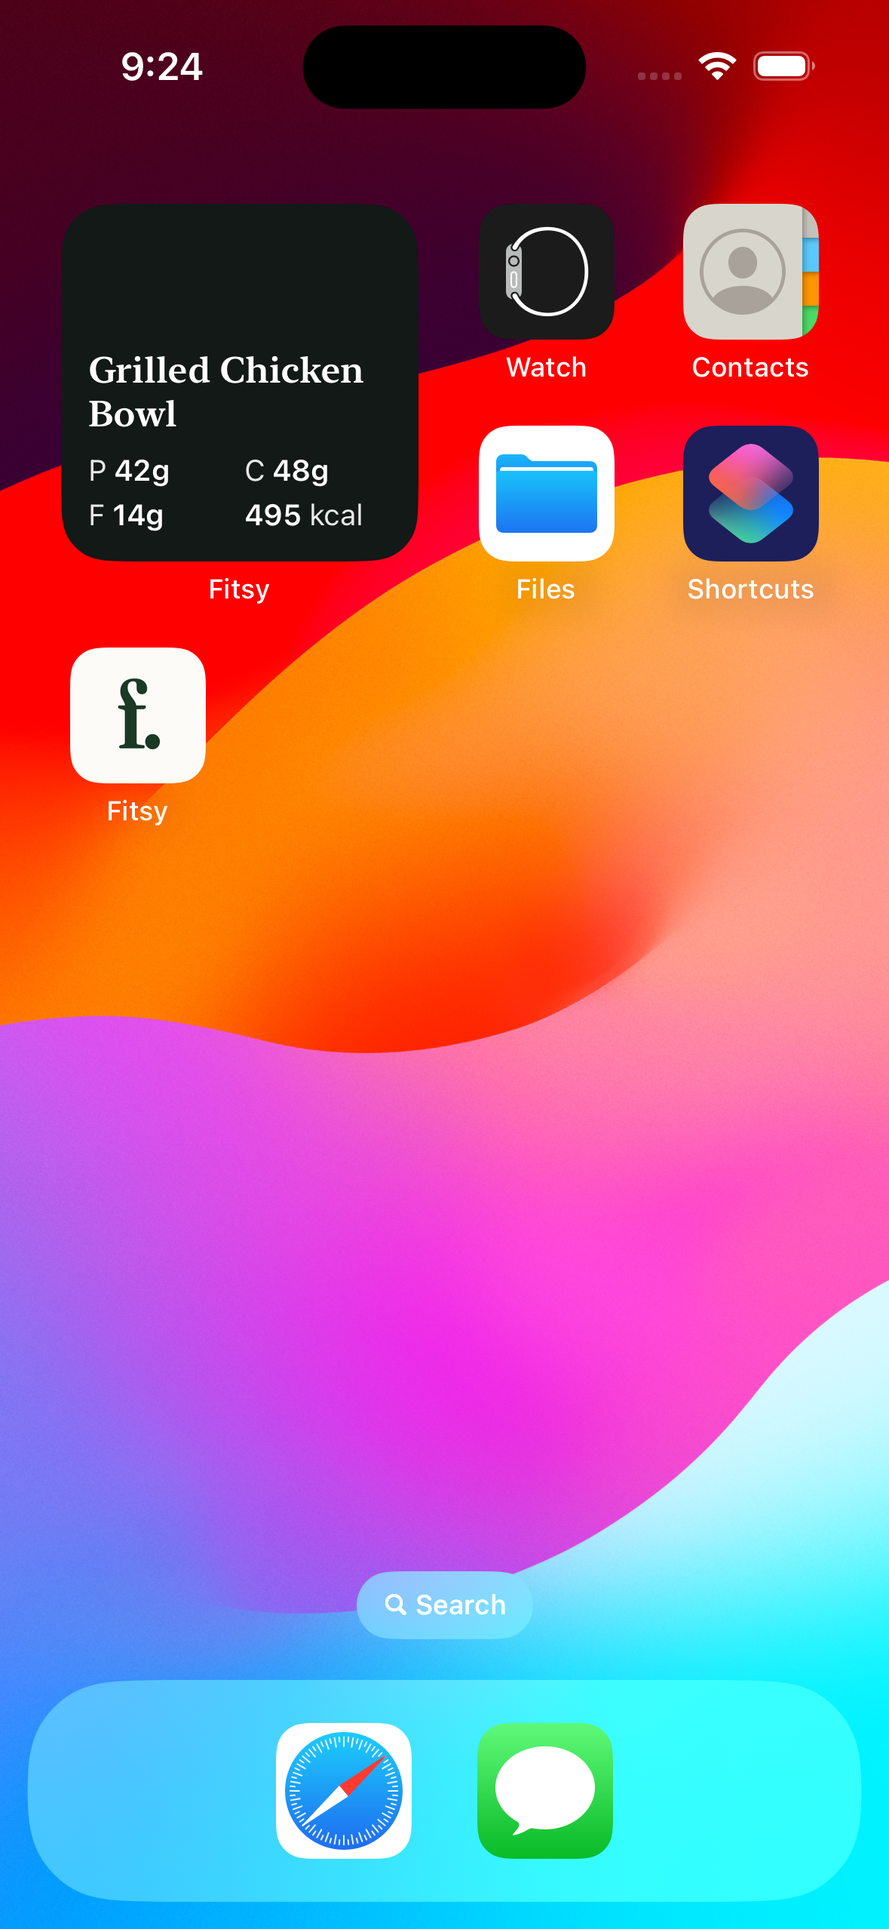
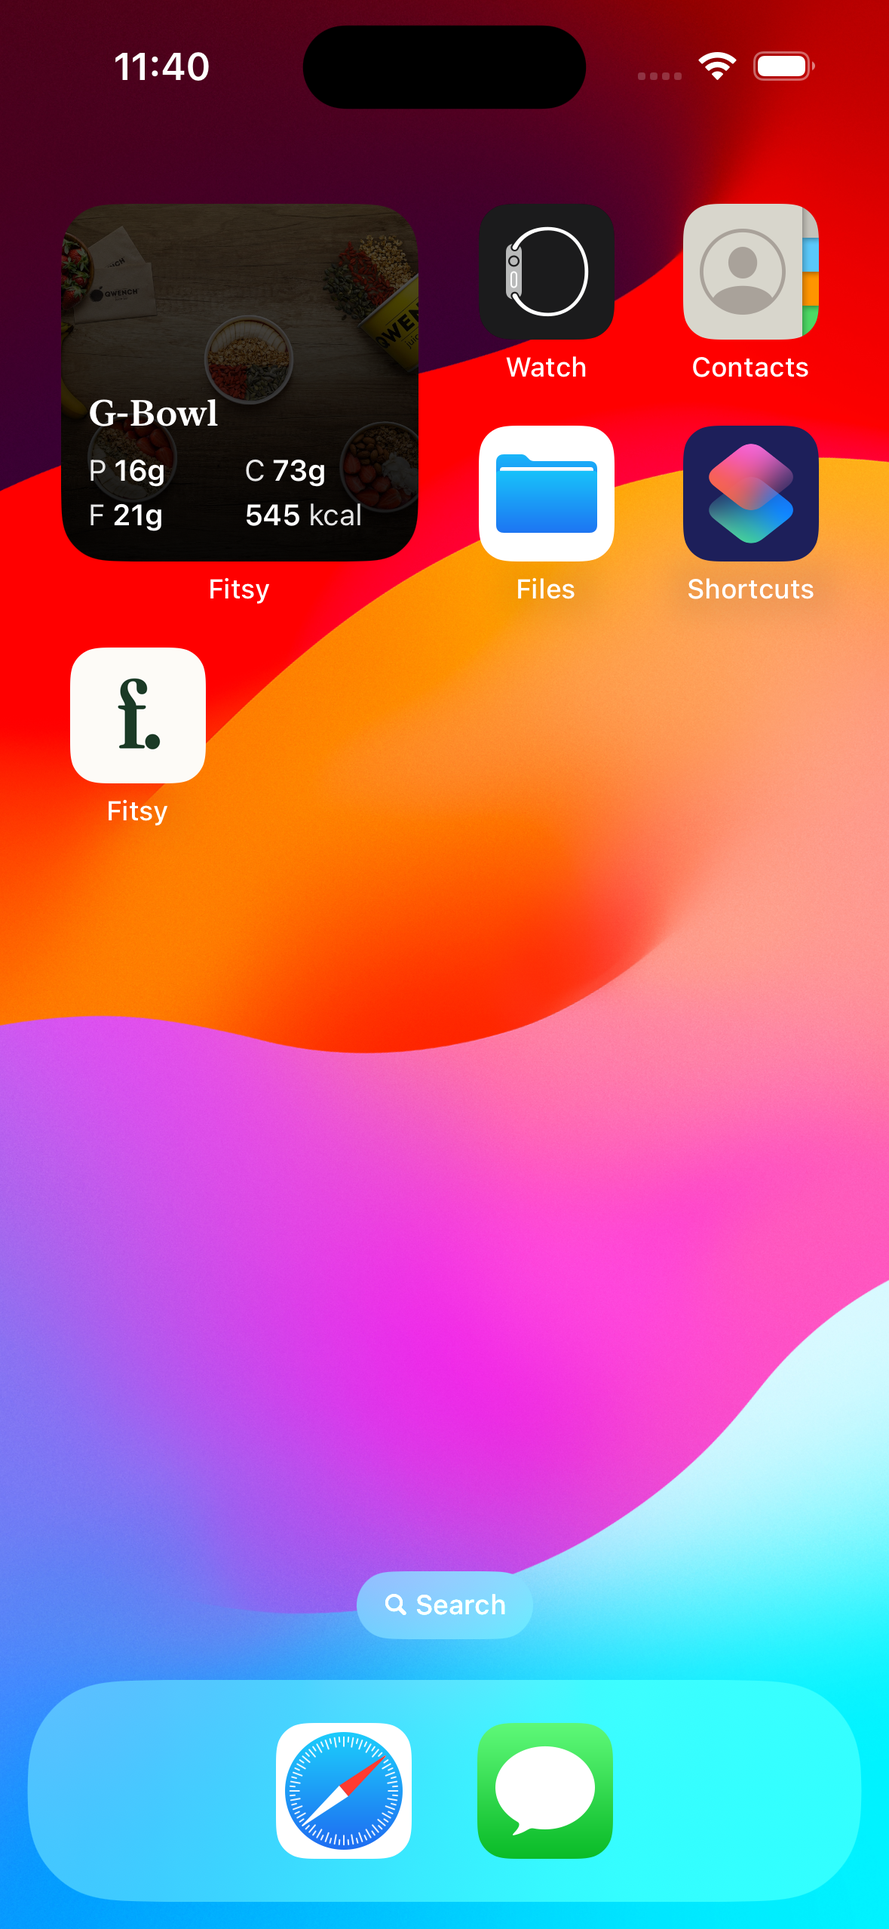
Round 2: real locked 4th map card, no-clip widget photo, balanced context copy
Addresses Dawit's 10:42 PM 2nd-round feedback on #802:
- Guided preview now returns one extra real, named restaurant beyond the
  three picks (API: SQL limit 3->4, dish match always redacted, same rule
  as an unentitled search row) so the map preview can show a genuine
  locked fourth option teasing the paid tier, not a fake placeholder.
- DiscoveryScreen/DiscoveryMap: removed the onboarding progress bar over
  the map preview so it reads as the real map screen with the guided tour.
- how-it-works.tsx: balanced the trimmed context screen with one line each
  for published vs. estimated nutrition, keeping the generous white space.
- widget.tsx: captured a cleaner real Home Screen photo (dish with a real
  photo this time) for the widget preview.

Changed region(s): [[0.0611, 0.0927, 0.4885, 0.2782], [0.1527, 0.0309, 0.2443, 0.0618]]

diff --git a/apps/mobile/components/DiscoveryMap.test.tsx b/apps/mobile/components/DiscoveryMap.test.tsx
@@ -581,7 +581,8 @@ it('recovers the production map preview, preserves sample disclosure, and carrie
   await screen.findByTestId('preview-retry');
   expect(screen.getByTestId('discovery-map')).toBeTruthy();
   expect(screen.getByTestId('preview-back')).toBeTruthy();
-  expect(screen.getByLabelText('Onboarding progress').props.accessibilityValue.now).toBe(75);
+  // The map preview is the real map screen: no onboarding progress chrome over it.
+  expect(screen.queryByLabelText('Onboarding progress')).toBeNull();
   offline = false;
   await act(async () => fireEvent.press(screen.getByTestId('preview-retry')));
   await screen.findByTestId('map-card-2');
@@ -618,6 +619,49 @@ it('recovers the production map preview, preserves sample disclosure, and carrie
     expect(Object.fromEntries(url.searchParams)).toMatchObject({ guided: '1', lat: '34.04', lng: '-118.24' });
     expect(url.searchParams.has('cursor')).toBe(false);
   }
+});
+
+it('shows a real, named fourth restaurant locked as a paid-tier teaser, with no dish match leaked', async () => {
+  await saveOnboardingField('goal', 'lose_fat');
+  // A lat/lng unused by any other test in this file - the guided preview
+  // client caches by exact area + targets, and the fixed 'buyer' test user
+  // id would otherwise collide with another test's cached response.
+  await saveOnboardingField('area', { lat: 34.19, lng: -118.39, name: 'Teaser Area', source: 'manual' });
+  markPreviewTourSeen();
+  const teaser = { ...restaurants[3], bestMatch: null };
+  global.fetch = jest.fn(withAccountProfile(async input => {
+    const url = new URL(input);
+    requests.push(url);
+    if (url.pathname === '/api/restaurants/preview') {
+      return response({ data: restaurants.slice(0, 3), meta: { nearbyDishCount: 12, radiusMiles: 3, lockedTeaser: teaser } });
+    }
+    return response({ active: false, verdict: 'never_subscribed', synced: true, stale: false, lastRcVerifiedAt: new Date().toISOString() });
+  }));
+  const screen = renderJourney('/welcome/preview', { ...routes, 'welcome/preview': () => <Preview /> });
+  await screen.findByTestId('map-card-3');
+  expect(screen.getByText('4 / 4')).toBeTruthy();
+  expect(screen.getByText('Fourth Spot')).toBeTruthy();
+  expect(screen.getByTestId('map-card-3').props.accessibilityLabel).toBe('Fourth Spot. Unlock meal name and full menu with Pro.');
+  expect(screen.queryByTestId('preview-hidden-dish-spot-3')).toBeNull();
+});
+
+it('shows only the three real picks when the area has no fourth nearby restaurant', async () => {
+  await saveOnboardingField('goal', 'lose_fat');
+  // Also a cache-key-unique area; see the comment in the preceding test.
+  await saveOnboardingField('area', { lat: 34.21, lng: -118.41, name: 'No Teaser Area', source: 'manual' });
+  markPreviewTourSeen();
+  global.fetch = jest.fn(withAccountProfile(async input => {
+    const url = new URL(input);
+    requests.push(url);
+    if (url.pathname === '/api/restaurants/preview') {
+      return response({ data: restaurants.slice(0, 3), meta: { nearbyDishCount: 3, radiusMiles: 3, lockedTeaser: null } });
+    }
+    return response({ active: false, verdict: 'never_subscribed', synced: true, stale: false, lastRcVerifiedAt: new Date().toISOString() });
+  }));
+  const screen = renderJourney('/welcome/preview', { ...routes, 'welcome/preview': () => <Preview /> });
+  await screen.findByTestId('map-card-2');
+  expect(screen.getByText('3 / 3')).toBeTruthy();
+  expect(screen.queryByTestId('map-card-3')).toBeNull();
 });
 
 it.each([undefined, false, 'true', 'control'])('fails closed for a non-boolean map flag (%s)', async value => {

diff --git a/apps/mobile/app/welcome/widget.tsx b/apps/mobile/app/welcome/widget.tsx
@@ -1,5 +1,5 @@
 import React from 'react';
-import { Image, StyleSheet, Text, View } from 'react-native';
+import { Image, StyleSheet, Text, useWindowDimensions, View } from 'react-native';
 import { useNavigation } from 'expo-router';
 import { WelcomeScreen } from '@/components/WelcomeScreen';
 import { TEXT } from '@/lib/brand';
@@ -11,28 +11,35 @@ const steps = ['Long-press your Home Screen.', 'Tap + (or Edit → Add Widget).'
 
 function WidgetCardScreen() {
   const navigation = useNavigation();
+  // Match WelcomeScreen's own compact breakpoint so the phone shrinks on
+  // shorter devices (iPhone SE) rather than pushing the steps under the footer.
+  const { height, fontScale } = useWindowDimensions();
+  const compact = height < 780 && fontScale <= 1.2;
+  const phoneWidth = compact ? 108 : 140;
   // This is the last onboarding screen; finish exactly as a direct purchase
   // without a widget tip already does.
   const finish = () => { void openPurchasedDestination(navigation).then(() => clearPaymentSignInContinuation()); };
   return <WelcomeScreen progress={0.95} title={"A meal at\na glance."}
     subtitle="Add Fitsy to your Home Screen to see it like this."
     canContinue onContinue={finish} onSkip={finish} continueLabel="Start exploring" showBack={false}>
-    <View style={s.phone} testID="onboarding-widget-card">
+    <View style={[s.phone, { width: phoneWidth, marginBottom: compact ? 12 : 20 }]} testID="onboarding-widget-card">
       <Image source={require('../../assets/widget-homescreen.png')} resizeMode="contain" style={s.screenshot}
         accessible accessibilityRole="image" testID="onboarding-widget-example"
         accessibilityLabel="Example Fitsy widget on a Home Screen, showing a real meal with its protein, carbs, fat and calories." />
     </View>
-    <View style={s.steps}>
-      {steps.map((step, index) => <Text key={step} style={s.step} testID={`onboarding-widget-step-${index + 1}`}>{index + 1}. {step}</Text>)}
+    <View style={[s.steps, compact && s.stepsCompact]}>
+      {steps.map((step, index) => <Text key={step} style={[s.step, compact && s.stepCompact]} testID={`onboarding-widget-step-${index + 1}`}>{index + 1}. {step}</Text>)}
     </View>
   </WelcomeScreen>;
 }
 
 const s = StyleSheet.create({
-  phone: { alignSelf: 'center', width: 140, aspectRatio: 9 / 18.5, borderRadius: 26, overflow: 'hidden', backgroundColor: '#1C1C1E', marginBottom: 20 },
+  phone: { alignSelf: 'center', aspectRatio: 9 / 18.5, borderRadius: 26, overflow: 'hidden', backgroundColor: '#1C1C1E' },
   screenshot: { width: '100%', height: '100%' },
   steps: { gap: 10 },
+  stepsCompact: { gap: 6 },
   step: { ...TEXT.body, fontSize: 15, lineHeight: 22 },
+  stepCompact: { fontSize: 13, lineHeight: 18 },
 });
 
 export default requireWelcomeGoal(WidgetCardScreen, '/welcome/target-setup');

diff --git a/apps/mobile/lib/useDiscoveryResults.ts b/apps/mobile/lib/useDiscoveryResults.ts
@@ -1,6 +1,6 @@
 import { useCallback, useEffect, useRef, useState } from 'react';
 import { randomUUID } from 'expo-crypto';
-import type { RestaurantResult } from '@fitsy/shared';
+import type { GuidedPreviewResponse, RestaurantResult } from '@fitsy/shared';
 import { SHUFFLE_EXCLUSION_MAX_ENCODED_LENGTH } from '@fitsy/shared/contracts/search';
 import type { MacroValues } from './macroPresets';
 import type { UseLocationResult, LocationState } from './useLocation';
@@ -27,6 +27,7 @@ export function useDiscoveryResults({ inputs, query, location, canSearch, target
   const [fetchSeq, setFetchSeq] = useState(0);
   const [outOfArea, setOutOfArea] = useState(false);
   const [nearbyDishCount, setNearbyDishCount] = useState<number>();
+  const [lockedTeaser, setLockedTeaser] = useState<GuidedPreviewResponse['meta']['lockedTeaser']>(null);
   // Invalidate on the rendered context, before the debounce starts another request.
   // Otherwise an older response can repaint results for text the user already replaced.
   const contextKey = JSON.stringify([inputs.protein, inputs.carbs, inputs.fat, inputs.calories, location.lat, location.lng, query.trim(), isOnboardingPreview]);
@@ -107,7 +108,10 @@ export function useDiscoveryResults({ inputs, query, location, canSearch, target
         if (!isCurrent()) return;
         if (previewResponse) {
           setNearbyDishCount(previewResponse.meta.nearbyDishCount);
+          setLockedTeaser(previewResponse.meta.lockedTeaser ?? null);
           void saveOnboardingField('previewArea', `${lat}:${lng}`).then(() => saveOnboardingField('previewCraving', q.trim())).catch(() => undefined);
+        } else {
+          setLockedTeaser(null);
         }
         if (networkError) {
           if (!shuffle) { setResults([]); setNextCursor(null); }
@@ -314,5 +318,6 @@ export function useDiscoveryResults({ inputs, query, location, canSearch, target
   }, [canShuffle, doFetch, inputs, location.lat, location.lng, location.source, query]);
   return { results, nextCursor, loading: canSearch && (loading || pending), loadingMore, refreshing,
     error: pending ? null : error, locked, fetchSeq, outOfArea: !pending && outOfArea,
-    nearbyDishCount: pending ? undefined : nearbyDishCount, doFetch, handleRefresh, handleEndReached, canShuffle, handleShuffle };
+    nearbyDishCount: pending ? undefined : nearbyDishCount, lockedTeaser: pending ? null : lockedTeaser,
+    doFetch, handleRefresh, handleEndReached, canShuffle, handleShuffle };
 }

diff --git a/apps/mobile/components/DiscoveryMap.tsx b/apps/mobile/components/DiscoveryMap.tsx
@@ -73,8 +73,12 @@ export default function DiscoveryMap({ discovery: d, onShowList, previewHeader, 
   const controlsBottom = insets.top + 8 + topHeight;
   const maxTrayHeight = Math.max(160, layoutHeight - controlsBottom - bottomClearance - 96);
   // Match the list's free-result boundary and preserve rows without coordinates.
-  const cards = useMemo(() => d.canSearch && !d.loading ? (d.locked || d.isOnboardingPreview ? d.results.slice(0, 3) : d.results) : [],
-    [d.canSearch, d.loading, d.locked, d.isOnboardingPreview, d.results]);
+  // The preview appends one real, locked card teasing the paid tier, when the
+  // area has a fourth nearby restaurant to show (lockedTeaser is null otherwise).
+  const cards = useMemo(() => d.canSearch && !d.loading
+    ? (d.isOnboardingPreview ? (d.lockedTeaser ? [...d.results.slice(0, 3), d.lockedTeaser] : d.results.slice(0, 3))
+      : d.locked ? d.results.slice(0, 3) : d.results) : [],
+    [d.canSearch, d.loading, d.locked, d.isOnboardingPreview, d.results, d.lockedTeaser]);
   const pins = useMemo(() => cards.filter(hasMapCoordinate), [cards]);
   const index = cards.findIndex(result => result.id === selectedId);
   const fallback = !d.location.loading && d.location.source.startsWith('fallback-');
@@ -237,7 +241,7 @@ export default function DiscoveryMap({ discovery: d, onShowList, previewHeader, 
             if (result) select(result, false);
           }}>
           {cards.map((result, position) => <View key={result.id} ref={position === 0 ? d.tourHeroRef : undefined} collapsable={false} testID={result.id === selectedId ? 'map-preview' : undefined}>
-            <DiscoveryMapCard result={result} locked={d.locked === true && !d.isOnboardingPreview}
+            <DiscoveryMapCard result={result} locked={(d.locked === true && !d.isOnboardingPreview) || result.id === d.lockedTeaser?.id}
               onboardingPreview={d.isOnboardingPreview} hideDishName={d.isOnboardingPreview && position > 0}
               style={{ width: cardWidth, height: compact ? 174 : 210 }}
               testID={result.id === selectedId ? 'map-preview-open' : `map-card-${position}`} onPress={() => open(result)}

diff --git a/apps/mobile/lib/useDiscoveryState.ts b/apps/mobile/lib/useDiscoveryState.ts
@@ -67,7 +67,7 @@ export function useDiscoveryState({ onboardingPreview = false }: { onboardingPre
   const canSearch = (hasInputs || hasQuery || isOnboardingPreview) && previewReady;
   const [targetsLoaded, setTargetsLoaded] = useState(false);
   const discovery = useDiscoveryResults({ inputs, query, location, canSearch, targetsLoaded, previewReady, isOnboardingPreview });
-  const { results, nextCursor, loading, loadingMore, refreshing, error, locked, fetchSeq, outOfArea, nearbyDishCount, doFetch, handleRefresh, handleEndReached, canShuffle, handleShuffle } = discovery;
+  const { results, nextCursor, loading, loadingMore, refreshing, error, locked, fetchSeq, outOfArea, nearbyDishCount, lockedTeaser, doFetch, handleRefresh, handleEndReached, canShuffle, handleShuffle } = discovery;
   const tourEnabled = isOnboardingPreview && locked === true && !filterVisible && !locationPickerVisible;
   const tourReady = previewTourReady({ preview: isOnboardingPreview, locked, loading, error, outOfArea, fetchSeq });
   const [emptyTour, setEmptyTour] = useState(false);
@@ -214,7 +214,7 @@ export function useDiscoveryState({ onboardingPreview = false }: { onboardingPre
     ]; }, [tried, results, demo.typing, loading, error, emptyTour]);
 
   return { navigation, isOnboardingPreview, tried, inputs, filterMode, query, setQuery: demo.editQuery, canSearch, hasQuery, location,
-    locationLabel, results, heroResult, listResults, nextCursor, loading, loadingMore, refreshing, error, locked, outOfArea, nearbyDishCount,
+    locationLabel, results, heroResult, listResults, nextCursor, loading, loadingMore, refreshing, error, locked, outOfArea, nearbyDishCount, lockedTeaser,
     filterVisible, setFilterVisible, locationPickerVisible, setLocationPickerVisible, tourReady, tourVisible: tour.visible, startTour: tour.start,
     tourEditRef, tourSearchRef, tourHeroRef, tourLocationRef, tourMoreRef, tourSteps, finishTour, tourStepShown: demo.showStep, cancelTourTyping: demo.cancel, handleClearQuery, handleApplyFilters,
     handleJoinWaitlist, handleOpenLocationPicker, handlePickLocation, handleUseCurrentLocation, unlockPreview,

diff --git a/apps/mobile/app/welcome/how-it-works.tsx b/apps/mobile/app/welcome/how-it-works.tsx
@@ -18,19 +18,27 @@ function HowItWorksScreen() {
       .catch(() => Alert.alert('Could not open preview', 'Please try again.')); }}>
     <View style={s.graphic}>
       <View style={s.iconWrap}><Ionicons name="receipt-outline" size={36} color={EDITORIAL.green} /></View>
-      <View style={s.badges}>
-        <Text style={s.badge} testID="nutrition-source-published">Published</Text>
-        <Text style={[s.badge, s.estimated]} testID="nutrition-source-estimated">Estimated</Text>
+      <View style={s.sources}>
+        <View style={s.sourceRow}>
+          <Text style={s.badge} testID="nutrition-source-published">Published</Text>
+          <Text style={s.sourceText}>Straight from the restaurant’s menu.</Text>
+        </View>
+        <View style={s.sourceRow}>
+          <Text style={[s.badge, s.estimated]} testID="nutrition-source-estimated">Estimated</Text>
+          <Text style={s.sourceText}>Our best approximation when it isn’t.</Text>
+        </View>
       </View>
     </View>
   </WelcomeScreen>;
 }
 const s = StyleSheet.create({
-  graphic: { alignItems: 'center', paddingVertical: 36, gap: 24 },
+  graphic: { alignItems: 'center', paddingVertical: 36, gap: 28 },
   iconWrap: { width: 72, height: 72, borderRadius: 36, backgroundColor: EDITORIAL.greenAccentTint, alignItems: 'center', justifyContent: 'center' },
-  badges: { flexDirection: 'row', gap: 10 },
+  sources: { gap: 16, alignSelf: 'stretch' },
+  sourceRow: { flexDirection: 'row', alignItems: 'center', gap: 12 },
   badge: { ...TEXT.bodySmall, borderRadius: 14, overflow: 'hidden', backgroundColor: EDITORIAL.greenAccentTint, color: EDITORIAL.green, paddingHorizontal: 12, paddingVertical: 6 },
   estimated: { backgroundColor: EDITORIAL.creamDeep, color: EDITORIAL.textMid },
+  sourceText: { ...TEXT.body, flex: 1, fontSize: 14, lineHeight: 20, color: EDITORIAL.textMid },
 });
 
 export default requireWelcomeGoal(HowItWorksScreen, '/welcome/target-setup');

diff --git a/apps/api/tests/db/goal-preview.integration.ts b/apps/api/tests/db/goal-preview.integration.ts
@@ -213,6 +213,27 @@ test('preview and older main clients share target ranking and retain context-bou
   } finally { await prisma.restaurant.deleteMany({ where: { id: { in: ids } } }); }
 });
 
+test('a fourth nearby restaurant surfaces as a named, redacted locked teaser; absent below four', async () => {
+  const prefix = randomUUID();
+  const ids = ['a', 'b', 'c', 'd'].map(suffix => `${prefix}-${suffix}`);
+  await prisma.$transaction(ids.map((id, i) => prisma.restaurant.create({ data: {
+    id, storeUuid: id, name: `Teaser fixture ${i}`, address: 'Synthetic endpoint fixture', source: 'test',
+    lat: 45, lng: 45, cuisineTags: [], photoUrl: `https://example.test/${i}.jpg`,
+    menuItems: { create: meal(`${id}-meal`, `Meal ${i}`, 600 + i) },
+  } })));
+  try {
+    const four = await guided(targets);
+    assert.deepEqual(four.data.map(row => row.id), [ids[0], ids[1], ids[2]]);
+    assert.ok(four.data.every(row => row.bestMatch !== null));
+    assert.deepEqual(four.meta.lockedTeaser, { id: ids[3], name: 'Teaser fixture 3', address: 'Synthetic endpoint fixture',
+      lat: 45, lng: 45, distanceMiles: 0, cuisineTags: [], chainFlag: false, photoUrl: 'https://example.test/3.jpg', bestMatch: null });
+    await prisma.restaurant.delete({ where: { id: ids[3]! } });
+    const three = await guided(targets);
+    assert.deepEqual(three.data.map(row => row.id), [ids[0], ids[1], ids[2]]);
+    assert.equal(three.meta.lockedTeaser, null);
+  } finally { await prisma.restaurant.deleteMany({ where: { id: { in: ids } } }); }
+});
+
 test('a craving never falls back inside a name-only restaurant when another restaurant has that dish', async () => {
   const a = randomUUID(), b = randomUUID();
   await prisma.$transaction([

diff --git a/apps/api/lib/guidedPreviewService.ts b/apps/api/lib/guidedPreviewService.ts
@@ -47,7 +47,8 @@ export function guidedPreviewSql({ lat, lng, targets, query }: GuidedPreviewPara
     ), winners AS (
       SELECT DISTINCT ON ("restaurantId") * FROM relevant ORDER BY "restaurantId", "scoreSum", "menuItemId"
     ), picks AS MATERIALIZED (
-      SELECT * FROM winners ORDER BY "orderKey", "restaurantId" LIMIT 3
+      -- One extra row beyond the three picks: the onboarding teaser's locked fourth option.
+      SELECT * FROM winners ORDER BY "orderKey", "restaurantId" LIMIT 4
     ), counts AS (
       SELECT (SELECT count(*)::integer FROM area_menu) AS "nearbyDishCount"
     )
@@ -66,13 +67,17 @@ export async function findGuidedPreview(params: GuidedPreviewParams): Promise<Gu
   const rows = await prisma.$queryRaw<PreviewRow[]>(guidedPreviewSql(params));
   const counts = rows[0]!;
   const targetsActive = MACRO_DIMENSIONS.some(key => activeTarget(params.targets[key]));
+  const picks = rows.filter(row => row.restaurantId != null);
+  const teaserRow = picks[3];
   return {
-    data: rows.filter(row => row.restaurantId != null).map(row => restaurantResultFromRow(row, targetsActive, true)),
+    data: picks.slice(0, 3).map(row => restaurantResultFromRow(row, targetsActive, true)),
     meta: {
       nearbyDishCount: counts.nearbyDishCount,
       radiusMiles: 3,
       // Explicit null disables numerical proof in older clients as well.
       goalMatch: null,
+      // Same redaction rule as an unentitled search row: real restaurant, no dish match sent.
+      lockedTeaser: teaserRow ? { ...restaurantResultFromRow(teaserRow, targetsActive, true), bestMatch: null } : null,
     },
   };
 }

diff --git a/apps/mobile/components/DiscoveryScreen.tsx b/apps/mobile/components/DiscoveryScreen.tsx
@@ -61,8 +61,14 @@ export function DiscoveryScreen({ onboardingPreview = false, onPreviewBack }: { 
   }), [showMap]);
   const closeTour = () => { finishTour(); listRef.current?.scrollToOffset({ offset: 0, animated: false }); };
   const renderSearchBar = (action?: React.ReactNode) => <SearchBar value={query} onChangeText={setQuery} onClear={handleClearQuery} containerRef={tourSearchRef} action={action} frosted={mapEnabled} />;
-  const previewNav = isOnboardingPreview && <WelcomeNav progress={0.75} backTestID="preview-back" onBack={onPreviewBack ?? (navigation.canGoBack() ? () => router.back() : undefined)} />;
+  const previewGoBack = onPreviewBack ?? (navigation.canGoBack() ? () => router.back() : undefined);
+  // The map preview is the real map screen, not an onboarding step: no
+  // progress-bar chrome there, just a small back control inline with the tip.
+  const previewNav = isOnboardingPreview && !showMap && <WelcomeNav progress={0.75} backTestID="preview-back" onBack={previewGoBack} />;
   const previewIntro = isOnboardingPreview && <View style={s.previewIntro} testID="preview-guide">
+    {showMap && previewGoBack && <Pressable onPress={previewGoBack} style={s.previewMapBack} accessibilityRole="button" accessibilityLabel="Go back" testID="preview-back">
+      <Ionicons name="chevron-back" size={20} color={EDITORIAL.textMid} />
+    </Pressable>}
     <Text style={s.previewHint}>{onboardingPitch(tried).preview}</Text>
     {mapEnabled && !showMap && <DiscoveryViewToggle map={false} onPress={() => setView('map')} />}
     <PreviewTourButton ready={tourReady} onPress={startTour} />

diff --git a/apps/api/app/api/restaurants/preview/route.ts b/apps/api/app/api/restaurants/preview/route.ts
@@ -31,7 +31,9 @@ interface PreviewResponse {
  *
  * Returns only name + cuisine info. bestMatch / meal details are intentionally
  * omitted for legacy clients. guided=1 explicitly exposes three meal summaries
- * for the onboarding tour, with separate coverage and goal-qualified counts.
+ * for the onboarding tour, with separate coverage and goal-qualified counts,
+ * plus `meta.lockedTeaser`: one more real, named nearby restaurant with no
+ * dish match, for the tour's locked-fourth-option affordance.
  * Full menus and continued discovery remain subscription features.
  */
 async function handleGET(

diff --git a/apps/mobile/components/DiscoveryScreen.styles.ts b/apps/mobile/components/DiscoveryScreen.styles.ts
@@ -10,6 +10,7 @@ export const s = StyleSheet.create({
   previewHint: { flex: 1, fontFamily: FONTS.nunitoSans, fontSize: 13, lineHeight: 19, color: EDITORIAL.textMid },
   previewLink: { fontFamily: FONTS.nunitoSansSemiBold, fontSize: 13, lineHeight: 20, color: EDITORIAL.green },
   previewBack: { flexDirection: 'row', alignItems: 'center', gap: 6, minHeight: 44, paddingHorizontal: 18 },
+  previewMapBack: { width: 32, height: 44, marginLeft: -12, alignItems: 'center', justifyContent: 'center' },
   masthead: {
     backgroundColor: EDITORIAL.cream,
     paddingHorizontal: 20,

diff --git a/packages/shared/src/contracts/restaurants.ts b/packages/shared/src/contracts/restaurants.ts
@@ -74,6 +74,9 @@ export const guidedPreviewResponseSchema = z.object({
     nearbyDishCount: z.number().int().nonnegative(),
     radiusMiles: z.literal(3),
     goalMatch: goalMatchSchema.nullable().optional(),
+    // A real fourth nearby restaurant, bestMatch always redacted (same rule
+    // as an unentitled search row) - the onboarding tour renders it locked.
+    lockedTeaser: restaurantResultSchema.nullable().optional(),
   }),
 });
 export type GuidedPreviewResponse = z.infer<typeof guidedPreviewResponseSchema>;
